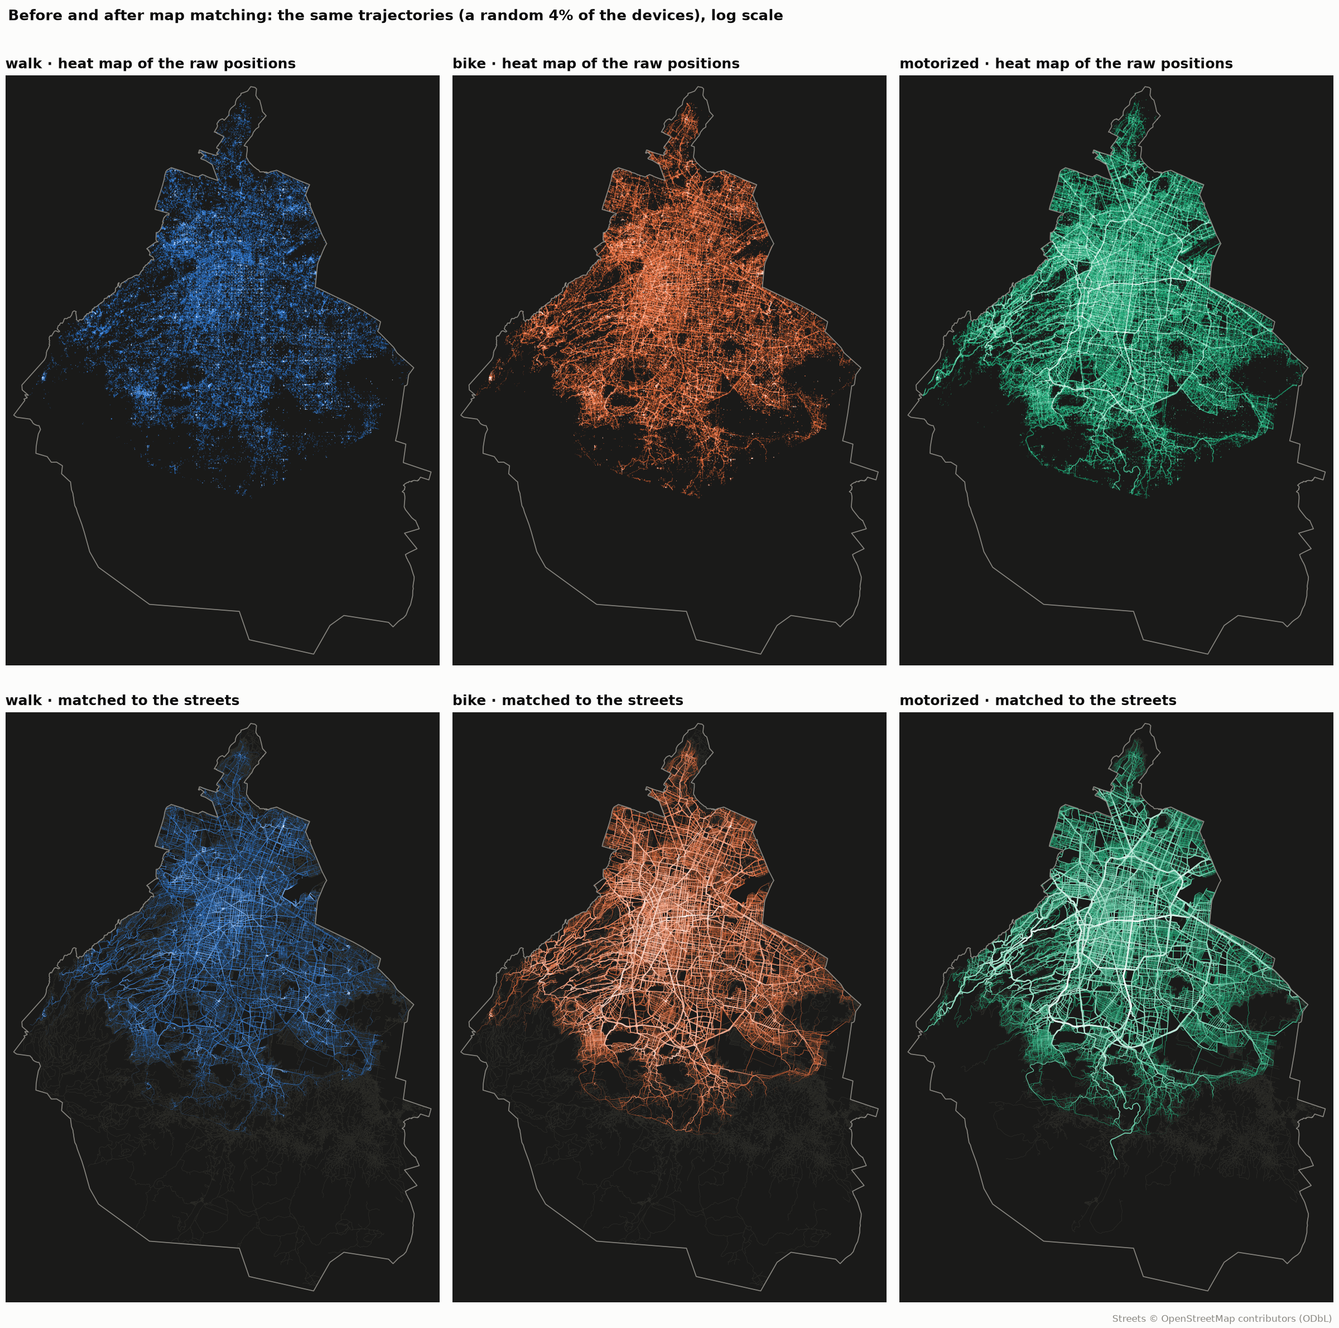
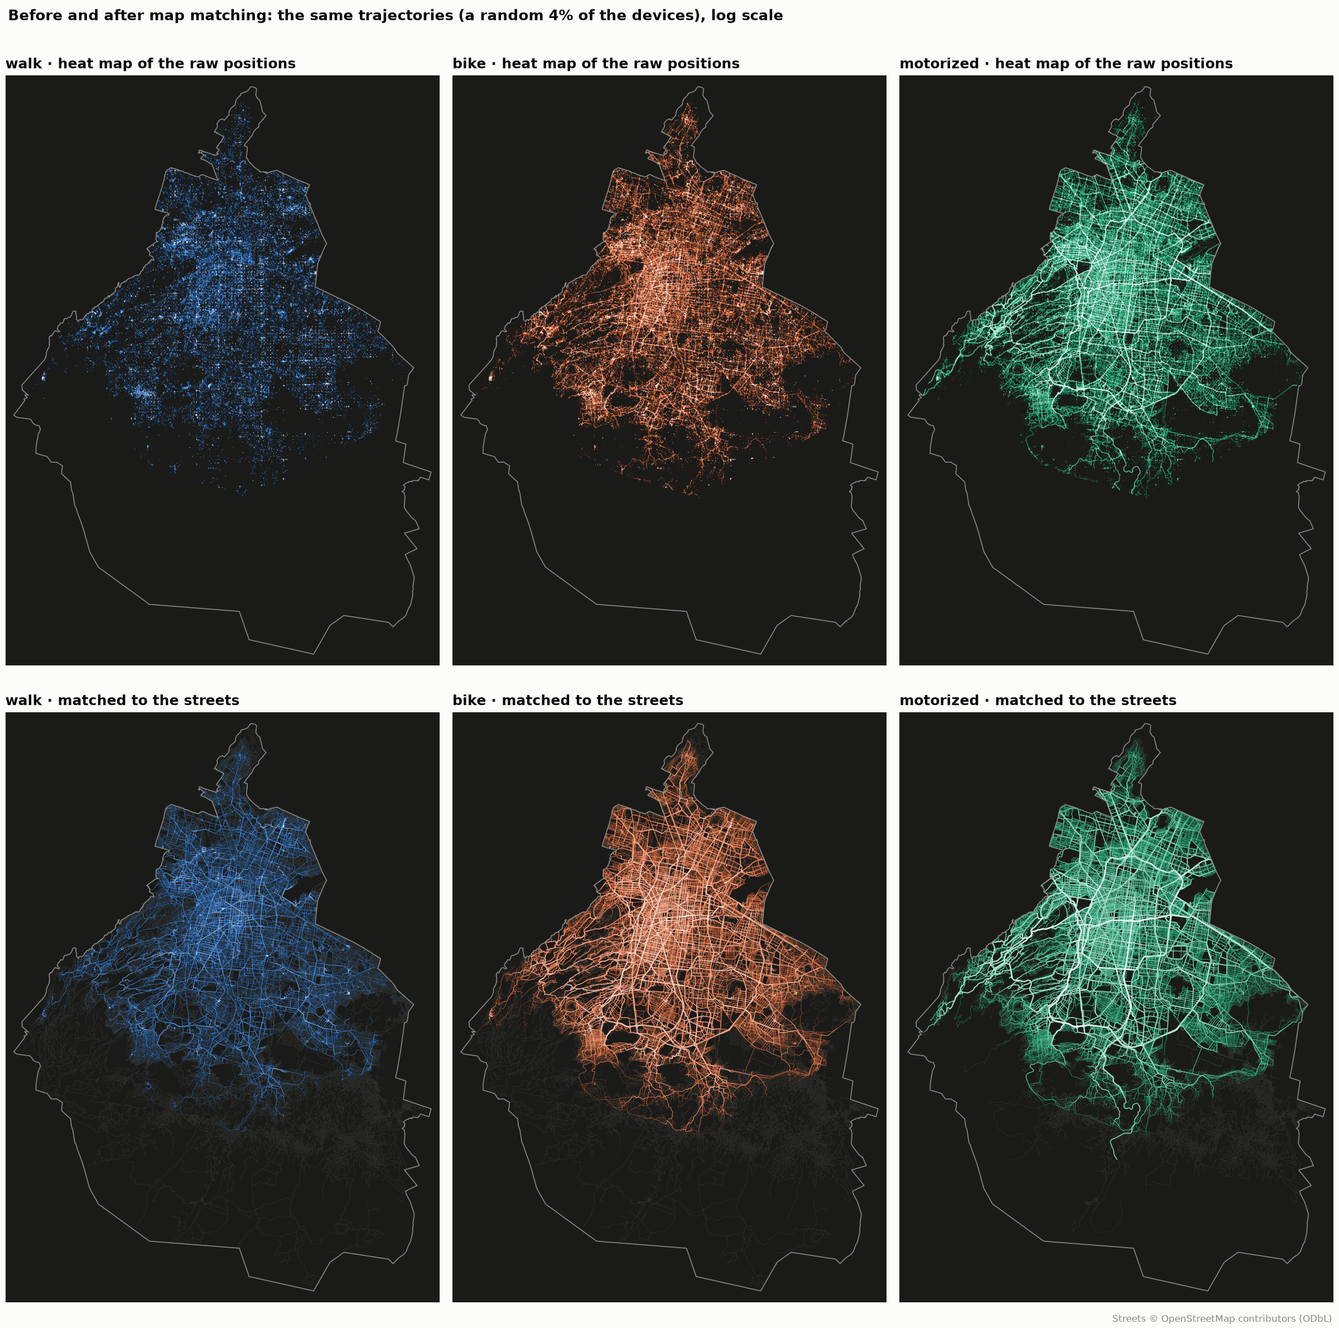
Map matching writes results chunk by chunk (output_dir): Mexico City example peaks at 9.9 GB instead of 32 GB
- match_trajectories(output_dir=...) writes trajectories/points/edges parquet parts per chunk and
  returns LazyFrames; modes filtered one at a time; edge_volumes streams over LazyFrames
- CLI match writes the same layout
- before/after figure uses exactly the trajectory heat-map style
- docs: walking cannot be validated against the survey (diaries omit short walks)

Changed region(s): [[0.7188, 0.0933, 0.9688, 0.3733], [0.375, 0.0933, 0.625, 0.3422], [0.0625, 0.0933, 0.2812, 0.3422]]

diff --git a/src/polaroam/roads.py b/src/polaroam/roads.py
@@ -418,7 +418,8 @@ def _paths(net: RoadNetwork, ch: pl.DataFrame) -> pl.DataFrame:
 
 
 def match_trajectories(trajectories: pl.DataFrame | pl.LazyFrame, network: RoadNetwork | dict[str, RoadNetwork],
-                       params: MatchParams | None = None, *, by: str = "mode_guess", **kwargs) -> MatchResult:
+                       params: MatchParams | None = None, *, by: str = "mode_guess",
+                       output_dir: str | Path | None = None, **kwargs) -> MatchResult:
     """Snap trajectories to a road network.
 
     ``trajectories`` is the output of the trajectory stage (``uid``, ``trajectory_id``,
@@ -428,43 +429,82 @@ def match_trajectories(trajectories: pl.DataFrame | pl.LazyFrame, network: RoadN
     ``{"walk": walk_net, "bike": bike_net, "motorized": drive_net}``); trajectories whose
     ``by`` value has no network are skipped. Keyword arguments override
     :class:`MatchParams` fields.
+
+    The results can be large (about 4 traversed edges per point). With ``output_dir``, each
+    chunk is written as it is matched (``trajectories/``, ``points/``, ``edges/`` parquet
+    parts) and nothing accumulates in memory; the result then holds LazyFrames scanning them.
     """
     p = params or MatchParams()
     if kwargs:
         p = MatchParams(**{**p.__dict__, **kwargs})
     df = trajectories.lazy().collect() if isinstance(trajectories, pl.LazyFrame) else trajectories
-    if isinstance(network, RoadNetwork):
-        groups = [(None, df, network)]
-    else:
-        groups = [(k, df.filter(pl.col(by) == k), net) for k, net in network.items()]
-    outs = [_match_one(sub, net, p, by) for _, sub, net in groups if sub.height]
-    if not outs:
-        empty = pl.DataFrame()
-        return MatchResult(empty, empty, empty)
-    return MatchResult(*(pl.concat([o[i] for o in outs], how="diagonal_relaxed") for i in range(3)))
+    nets = [(None, network)] if isinstance(network, RoadNetwork) else list(network.items())
+    names = ("trajectories", "points", "edges")
+    out = Path(output_dir) if output_dir is not None else None
+    if out is not None:
+        for n in names:
+            (out / n).mkdir(parents=True, exist_ok=True)
+            for old in (out / n).glob("part-*.parquet"):
+                old.unlink()
+    kept: list[list[pl.DataFrame]] = [[], [], []]
+    part = 0
+    for label, net in nets:
+        sub = df if label is None else df.filter(pl.col(by) == label)  # one mode at a time
+        if sub.height == 0:
+            continue
+        for tables in _match_chunks(sub, net, p, by):
+            for i, t in enumerate(tables):
+                if t.height == 0:
+                    continue
+                if out is not None:
+                    t.write_parquet(out / names[i] / f"part-{part:05d}.parquet")
+                else:
+                    kept[i].append(t)
+            part += 1
+        del sub
+    if out is not None:
+        scan = [pl.scan_parquet(out / n / "*.parquet") if any((out / n).glob("*.parquet")) else pl.LazyFrame()
+                for n in names]
+        return MatchResult(*scan)
+    return MatchResult(*(pl.concat(k, how="diagonal_relaxed") if k else pl.DataFrame() for k in kept))
 
 
-def _match_one(df: pl.DataFrame, net: RoadNetwork, p: MatchParams, by: str) -> tuple:
+def _match_chunks(df: pl.DataFrame, net: RoadNetwork, p: MatchParams, by: str):
+    """Match ``df`` in chunks of about ``chunk_points`` points; yield each chunk's finished
+    ``(trajectories, points, edges)`` tables."""
     keys = df.select("uid", "trajectory_id", *([by] if by in df.columns else [])).with_row_index("key")
     pts = _points(df)
     # chunks of whole trajectories with about chunk_points points
     sizes = pts.group_by("key").agg(pl.len().alias("n")).sort("key")
-    chunk_id = (sizes["n"].cum_sum() // p.chunk_points).alias("chunk")
-    sizes = sizes.with_columns(chunk_id)
-    traj_rows, point_rows, edge_rows = [], [], []
+    sizes = sizes.with_columns((sizes["n"].cum_sum() // p.chunk_points).alias("chunk"))
+    attrs = net.edges.drop("length_m")
+    cols = ["uid", "trajectory_id", *([by] if by in keys.columns else []), "n_points", "n_matched", "n_parts",
+            "matched_length_m", "mean_distance_m", "geometry"]
     for ks in sizes.partition_by("chunk"):
+        ids = keys.join(ks.select("key"), on="key", how="semi")  # key, uid, trajectory_id (+ mode)
+        tr = ids.join(ks.select("key", pl.col("n").cast(pl.UInt32).alias("n_points")), on="key", how="left")
         sub = pts.join(ks.select("key"), on="key", how="semi")
         res = _match_chunk(net, sub, p)
         if res is None:
+            tr = tr.with_columns(pl.lit(0, pl.UInt32).alias("n_matched"), pl.lit(0, pl.UInt32).alias("n_parts"),
+                                 pl.lit(0.0).alias("matched_length_m"), pl.lit(None, pl.Float64).alias("mean_distance_m"),
+                                 pl.lit(None, pl.String).alias("geometry"))
+            yield tr.select(cols), pl.DataFrame(), pl.DataFrame()
             continue
         ch, pts_m = res
         pieces = _paths(net, ch)
-        point_rows.append(ch.join(pts_m.select("key", "s", "step", "lon", "lat", "t"), on=["key", "s"])
-                          .select("key", "step", pl.col("t").alias("timestamp"), pl.col("lon").alias("longitude"),
-                                  pl.col("lat").alias("latitude"), pl.col("mlon").alias("matched_longitude"),
-                                  pl.col("mlat").alias("matched_latitude"), "edge", pl.col("offset").alias("offset_m"),
-                                  pl.col("dist").alias("distance_m"), "part"))
-        edge_rows.append(pieces.join(ch.select("key", "s", "part"), on=["key", "s"]))
+        points = (ids.join(ch.join(pts_m.select("key", "s", "step", "lon", "lat", "t"), on=["key", "s"])
+                           .select("key", "step", pl.col("t").alias("timestamp"), pl.col("lon").alias("longitude"),
+                                   pl.col("lat").alias("latitude"), pl.col("mlon").alias("matched_longitude"),
+                                   pl.col("mlat").alias("matched_latitude"), "edge",
+                                   pl.col("offset").alias("offset_m"), pl.col("dist").alias("distance_m"), "part"),
+                           on="key").drop("key"))
+        edges = (ids.join(pieces.join(ch.select("key", "s", "part"), on=["key", "s"]), on="key")
+                 .sort("key", "s", "order")
+                 .with_columns(pl.int_range(pl.len()).over("key").alias("seq"))
+                 .join(net._edge_nodes.select("edge", "length_m"), on="edge", how="left")
+                 .join(attrs, on="edge", how="left")
+                 .drop("key", "order", "last"))
         # geometry: start point of each part, then for every piece its interior vertices and its end
         verts = (pieces.lazy().join(net._vertices.lazy(), on="edge")
                  .filter((pl.col("cum") > pl.col("from_m"))
@@ -491,34 +531,13 @@ def _match_one(df: pl.DataFrame, net: RoadNetwork, p: MatchParams, by: str) -> t
         stats = ch.group_by("key").agg(pl.len().cast(pl.UInt32).alias("n_matched"),
                                        pl.col("dist").mean().alias("mean_distance_m"))
         length = pieces.group_by("key").agg((pl.col("to_m") - pl.col("from_m")).sum().alias("matched_length_m"))
-        traj_rows.append(stats.join(length, on="key", how="left").join(geo, on="key", how="left"))
-    n_points = sizes.select("key", pl.col("n").cast(pl.UInt32).alias("n_points"))
-    tr = keys.join(n_points, on="key", how="left")
-    if traj_rows:
-        tr = tr.join(pl.concat(traj_rows), on="key", how="left")
-    else:
-        tr = tr.with_columns(pl.lit(None, pl.UInt32).alias("n_matched"), pl.lit(None, pl.Float64).alias("mean_distance_m"),
-                             pl.lit(None, pl.Float64).alias("matched_length_m"), pl.lit(None, pl.UInt32).alias("n_parts"),
-                             pl.lit(None, pl.String).alias("geometry"))
-    tr = tr.with_columns(pl.col("n_matched").fill_null(0), pl.col("matched_length_m").fill_null(0.0),
-                         pl.col("n_parts").fill_null(0).cast(pl.UInt32))
-    ids = keys  # key, uid, trajectory_id (+ the mode column)
-    points = (pl.concat(point_rows) if point_rows else pl.DataFrame(schema={"key": pl.UInt32}))
-    points = ids.join(points, on="key").drop("key") if point_rows else pl.DataFrame()
-    edges = pl.DataFrame()
-    if edge_rows:
-        attrs = net.edges.drop("length_m")
-        edges = (ids.join(pl.concat(edge_rows), on="key").sort("key", "s", "order")
-                 .with_columns(pl.int_range(pl.len()).over("key").alias("seq"))
-                 .join(net._edge_nodes.select("edge", "length_m"), on="edge", how="left")
-                 .join(attrs, on="edge", how="left")
-                 .drop("key", "order", "last"))
-    cols = ["uid", "trajectory_id", *([by] if by in keys.columns else []), "n_points", "n_matched", "n_parts",
-            "matched_length_m", "mean_distance_m", "geometry"]
-    return tr.select(cols), points, edges
+        tr = (tr.join(stats, on="key", how="left").join(length, on="key", how="left").join(geo, on="key", how="left")
+              .with_columns(pl.col("n_matched").fill_null(0), pl.col("matched_length_m").fill_null(0.0),
+                            pl.col("n_parts").fill_null(0).cast(pl.UInt32)))
+        yield tr.select(cols), points, edges
 
 
-def edge_volumes(edges: pl.DataFrame, network: RoadNetwork | None = None, by: str | None = None, *,
+def edge_volumes(edges: pl.DataFrame | pl.LazyFrame, network: RoadNetwork | None = None, by: str | None = None, *,
                  min_fraction: float = 0.0) -> pl.DataFrame:
     """Trajectories per edge (each trajectory counted once per edge), optionally per ``by``
     (e.g. ``mode_guess``); with ``network``, the edge ``geometry`` (WKB) is added.
@@ -528,12 +547,14 @@ def edge_volumes(edges: pl.DataFrame, network: RoadNetwork | None = None, by: st
     do not light up the whole edge on a map).
     """
     keys = ["edge", *([by] if by else [])]
+    per = (edges.lazy().select("uid", "trajectory_id", *keys, "from_m", "to_m", "length_m")
+           .group_by("uid", "trajectory_id", *keys)
+           .agg(((pl.col("to_m") - pl.col("from_m")).sum() / pl.col("length_m").first().clip(lower_bound=1e-9))
+                .alias("_cover")))
     if min_fraction > 0:
-        cover = ((pl.col("to_m") - pl.col("from_m")).sum().over("uid", "trajectory_id", *keys)
-                 / pl.col("length_m").clip(lower_bound=1e-9))
-        edges = edges.filter(cover >= min_fraction)
-    vol = (edges.unique(["uid", "trajectory_id", *keys]).group_by(keys)
-           .agg(pl.len().cast(pl.UInt32).alias("trajectories")).sort("trajectories", descending=True))
+        per = per.filter(pl.col("_cover") >= min_fraction)
+    vol = (per.group_by(keys).agg(pl.len().cast(pl.UInt32).alias("trajectories"))
+           .sort("trajectories", descending=True).collect(engine="streaming"))
     if network is not None:
         import shapely
 

diff --git a/examples/mexico_city_matching.py b/examples/mexico_city_matching.py
@@ -46,8 +46,8 @@ def sample_trajectories(out: str, pings: str, sinks: str | None, n_devices: int,
     return tr
 
 
-def summary(res: pr.MatchResult, tr: pl.DataFrame) -> pl.DataFrame:
-    m = res.trajectories.join(tr.select("uid", "trajectory_id", "length_m"), on=["uid", "trajectory_id"])
+def summary(trajs: pl.DataFrame, tr: pl.DataFrame) -> pl.DataFrame:
+    m = trajs.join(tr.select("uid", "trajectory_id", "length_m"), on=["uid", "trajectory_id"])
     return (m.group_by("mode_guess").agg(
         pl.len().alias("trajectories"),
         (pl.col("n_matched").sum() / pl.col("n_points").sum()).alias("points_matched"),
@@ -107,13 +107,16 @@ def draw_matched(ax, net, v, mode, color, t):
 
 
 def draw_density(ax, coords, mode, color, t, bins=900):
-    """Heat map of the observed positions (trajectory vertices), as on the trajectory maps."""
+    """Heat map of the observed positions (trajectory vertices): the same colors, bins and scale as
+    the trajectory heat maps of mexico_city_figures.fig_mode_maps."""
     h = vertex_density(coords, bins)
     x0, x1, y0, y1 = extent()
+    cmap = LinearSegmentedColormap.from_list(
+        mode, [MAP_BG, blend(color, MAP_BG, 0.55), color, blend(color, "#ffffff", 0.6), "#ffffff"])
     ax.set_facecolor(MAP_BG)
     mm = np.ma.masked_where((h < 1) | ~grid_mask(h.shape), h)
-    ax.imshow(mm, extent=(x0, x1, y0, y1), origin="lower", cmap=ramp(mode, color), interpolation="antialiased",
-              norm=LogNorm(vmin=1, vmax=max(np.percentile(h[h > 0], 99.5), 2)))
+    ax.imshow(mm, extent=(x0, x1, y0, y1), origin="lower", cmap=cmap, interpolation="antialiased",
+              norm=LogNorm(vmin=1, vmax=max(np.percentile(h[h > 0], 99), 2)))
     bare(ax, t)
 
 
@@ -174,24 +177,21 @@ def main():
     nets = {m: pr.RoadNetwork(pl.read_parquet(f"{a.osm}/{k}.parquet"), directed=True) for m, k in NETWORKS.items()}
     for m, net in nets.items():
         print(m, net)
-    if a.reuse and (work / "matched_edges.parquet").exists():
-        res = pr.MatchResult(pl.read_parquet(work / "matched_trajectories.parquet"), pl.DataFrame(),
-                             pl.read_parquet(work / "matched_edges.parquet"))
-    else:
+    matched = work / "matched"
+    if not (a.reuse and (matched / "edges").exists()):
         t0 = time.time()
-        res = pr.match_trajectories(tr, nets)
-        n_pts = int(res.trajectories["n_points"].sum())
-        print(f"matched {res.trajectories.height:,} trajectories, {n_pts:,} points in {time.time() - t0:.0f}s",
-              flush=True)
-        res.trajectories.write_parquet(work / "matched_trajectories.parquet")
-        res.edges.write_parquet(work / "matched_edges.parquet")
+        # each chunk is written as it is matched: memory stays flat however large the results
+        pr.match_trajectories(tr, nets, output_dir=matched)
+        print(f"matched in {time.time() - t0:.0f}s", flush=True)
+    trajs = pl.scan_parquet(matched / "trajectories" / "*.parquet").drop("geometry").collect()
+    edges = pl.scan_parquet(matched / "edges" / "*.parquet")
+    print(f"{trajs.height:,} trajectories, {int(trajs['n_points'].sum()):,} points")
     with pl.Config(tbl_cols=10, tbl_width_chars=160):
-        print(summary(res, tr))
+        print(summary(trajs, tr))
     vols, counts = {}, {}
     for m, net in nets.items():
-        e = res.edges.filter(pl.col("mode_guess") == m)
-        vols[m] = undirected_volumes(pr.edge_volumes(e, min_fraction=0.5), net)
-        counts[m] = res.trajectories.filter((pl.col("mode_guess") == m) & (pl.col("n_parts") > 0)).height
+        vols[m] = undirected_volumes(pr.edge_volumes(edges.filter(pl.col("mode_guess") == m), min_fraction=0.5), net)
+        counts[m] = trajs.filter((pl.col("mode_guess") == m) & (pl.col("n_parts") > 0)).height
     style(THEMES["light"])  # one image for both site themes: white page, dark map panel
     fig_matched(nets, vols, counts, THEMES["light"], f"{a.out}/cdmx_matched.png")
     fig_compare(tr, nets, vols, counts, THEMES["light"], f"{a.out}/cdmx_matched_vs_raw.png")

diff --git a/tests/test_roads.py b/tests/test_roads.py
@@ -217,12 +217,12 @@ def test_cli_match(tmp_path):
     tr.write_parquet(tmp_path / "trips.parquet")
     assert main(["match", str(tmp_path / "trips.parquet"), str(tmp_path / "one"), "--network",
                  str(tmp_path / "roads.parquet")]) == 0
-    assert pl.read_parquet(tmp_path / "one" / "trajectories.parquet")["n_parts"].to_list() == [1, 1]
+    assert pl.read_parquet(tmp_path / "one" / "trajectories" / "*.parquet")["n_parts"].to_list() == [1, 1]
     assert main(["match", str(tmp_path / "trips.parquet"), str(tmp_path / "modes"), "--network",
                  f"walk={tmp_path / 'roads.parquet'}", "--search-radius", "40"]) == 0
-    out = pl.read_parquet(tmp_path / "modes" / "trajectories.parquet")
+    out = pl.read_parquet(tmp_path / "modes" / "trajectories" / "*.parquet")
     assert out["mode_guess"].to_list() == ["walk"]  # no network given for bike
-    assert (tmp_path / "modes" / "edges.parquet").exists() and (tmp_path / "modes" / "points.parquet").exists()
+    assert any((tmp_path / "modes" / "edges").glob("*.parquet"))
 
 
 def test_edge_volumes_min_fraction(net):
@@ -232,3 +232,14 @@ def test_edge_volumes_min_fraction(net):
     every = pr.edge_volumes(res.edges)
     half = pr.edge_volumes(res.edges, min_fraction=0.5)
     assert every.height == 2 and half.height == 1
+
+
+def test_output_dir_matches_in_memory(net, tmp_path):
+    tr = trips([(0, 0), (300, 0)], [(0, 100), (0, 300)], [(100, 0), (100, 400)]).with_columns(
+        pl.Series("mode_guess", ["walk", "bike", "walk"]))
+    p = pr.MatchParams(chunk_points=20)  # several chunks
+    mem = pr.match_trajectories(tr, {"walk": net, "bike": net}, p)
+    disk = pr.match_trajectories(tr, {"walk": net, "bike": net}, p, output_dir=tmp_path / "m")
+    assert len(list((tmp_path / "m" / "edges").glob("*.parquet"))) > 2
+    for name, key in [("trajectories", ["uid"]), ("points", ["uid", "step"]), ("edges", ["uid", "seq"])]:
+        assert getattr(disk, name).collect().sort(key).equals(getattr(mem, name).sort(key)), name

diff --git a/src/polaroam/cli.py b/src/polaroam/cli.py
@@ -225,13 +225,10 @@ def _match(a: argparse.Namespace) -> int:
     over = {k: v for k, v in (("search_radius", a.search_radius), ("max_candidates", a.max_candidates),
                               ("sigma", a.sigma), ("beta", a.beta), ("route_factor", a.route_factor),
                               ("max_speed_kmh", a.max_speed)) if v is not None}
-    res = match_trajectories(pl.scan_parquet(a.trajectories), network, MatchParams(**over), by=a.by)
     out = Path(a.out)
-    out.mkdir(parents=True, exist_ok=True)
-    for name in ("trajectories", "points", "edges"):
-        getattr(res, name).write_parquet(out / f"{name}.parquet")
-    t = res.trajectories
-    print(f"{t.height:,} trajectories matched ({int((t['n_parts'] == 1).sum()):,} in one piece) -> {out}")
+    res = match_trajectories(pl.scan_parquet(a.trajectories), network, MatchParams(**over), by=a.by, output_dir=out)
+    t = res.trajectories.select(pl.len(), (pl.col("n_parts") == 1).sum()).collect().row(0)
+    print(f"{t[0]:,} trajectories matched ({t[1]:,} in one piece) -> {out}/{{trajectories,points,edges}}/")
     return 0
 
 

diff --git a/docs/examples/mexico-city.md b/docs/examples/mexico-city.md
@@ -146,8 +146,8 @@ trips = pr.extract_trajectories(pings, stops, simplify_tolerance=0, min_pings=2,
                                 remove_sinks="mx_sinks.parquet")
 nets = {m: pr.RoadNetwork(pl.read_parquet(f"osm/{k}.parquet"), directed=True)
         for m, k in [("walk", "walk"), ("bike", "bike"), ("motorized", "drive")]}
-res = pr.match_trajectories(trips, nets)
-vol = pr.edge_volumes(res.edges, by="mode_guess", min_fraction=0.5)
+res = pr.match_trajectories(trips, nets, output_dir="matched/")   # written chunk by chunk
+vol = pr.edge_volumes(res.edges, by="mode_guess", min_fraction=0.5)  # res.edges is a LazyFrame
 ```
 
 ![Trajectories matched to the streets of Mexico City, by mode](../assets/figures/cdmx_matched.png)
@@ -171,11 +171,11 @@ corridors from the streets next to them.
 - "No matched line": short trajectories (median 6 points) with at most one ping within 80 m of
   the mode's network, so there is nothing to connect.
 
-Matching the 567,517 trajectories (11.7M points) on the three networks took 8.8 minutes on 32
-CPU cores. The script peaked at 32 GB of RAM, most of it the results kept in memory: the
-traversed-edges table alone has 46.6M rows (6 GB). Matching all the walk trajectories alone
-peaks at 5.7 GB. For larger runs, match in batches (a day, or a shard of devices) and write
-each result.
+Matching the 567,517 trajectories (11.7M points) on the three networks took 9.1 minutes on 32
+CPU cores, with a peak of 9.9 GB of RAM for the whole script (sample, three networks, matching
+and figures). The results are written chunk by chunk with `output_dir`, so they never
+accumulate in memory: the traversed-edges table alone has 46.6M rows. Kept in memory instead,
+the same run peaked at 32 GB.
 
 ## Checked against the official survey
 
@@ -217,9 +217,11 @@ What this says:
   it is likely slow motorized movement (congested traffic, buses), which speed rules cannot
   tell from a bicycle. `mode_guess` is a baseline; separating buses, cars and bicycles needs
   context such as transit routes (see [Speed and mode](../guide/speed-and-mode.md)).
-- **Walking is undercounted and in the wrong places.** Its share is far lower than the
-  survey's, and its origins do not correlate with the survey's at all. Short walks rarely end
-  in a stay of 5 minutes or more 200 m away, and have few pings.
+- **Walking cannot be validated against the survey.** Travel diaries leave out short
+  pedestrian trips, so the survey's walking trips are the deliberate ones (to school, to the
+  market) with their own places and hours. LBS trips need a stay of 5 minutes or more at each
+  end, 200 m apart, which leaves out short walks too. The two sources measure different
+  walking, so neither the share (30% vs 8%) nor the geography is expected to match.
 - **Timing is broadly right.** Night trips are as rare as in the survey and the evening peak
   matches; the LBS data lacks the sharp 7:00 morning peak and has more late-evening trips.
 - **Durations differ by definition**: a survey trip is door to door (with walking and

diff --git a/docs/guide/map-matching.md b/docs/guide/map-matching.md
@@ -117,9 +117,20 @@ On a 90,000-node grid, 425,000 points match in about 9 s on 32 cores. On Mexico 
 OpenStreetMap networks, 11.7M points match in 8.8 minutes (22,000 points per second). The large
 joins (points × nearby road pieces, candidate pairs) run in Polars' streaming engine, and
 trajectories are processed in chunks of `chunk_points` points, so memory stays bounded: all the
-walk trajectories of the Mexico City example (2.3M points, 535,000 edges) peak at 5.7 GB. The
-results themselves can be large (about 4 traversed edges per point), so match big datasets in
-batches and write each result.
+walk trajectories of the Mexico City example (2.3M points, 535,000 edges) peak at 5.7 GB.
+
+The results themselves can be large: about 4 traversed edges per point. Pass `output_dir` and
+each chunk is written as soon as it is matched, so nothing accumulates in memory; the result then
+holds LazyFrames over the written files:
+
+```python
+res = pr.match_trajectories(trips, nets, output_dir="matched/")
+# matched/trajectories/*.parquet, matched/points/*.parquet, matched/edges/*.parquet
+vol = pr.edge_volumes(res.edges, by="mode_guess")        # streams over the files
+```
+
+In the Mexico City example (11.7M points, three networks) this keeps the whole script at
+9.9 GB; holding the results in memory, it peaked at 32 GB.
 
 ## Parameters
 
